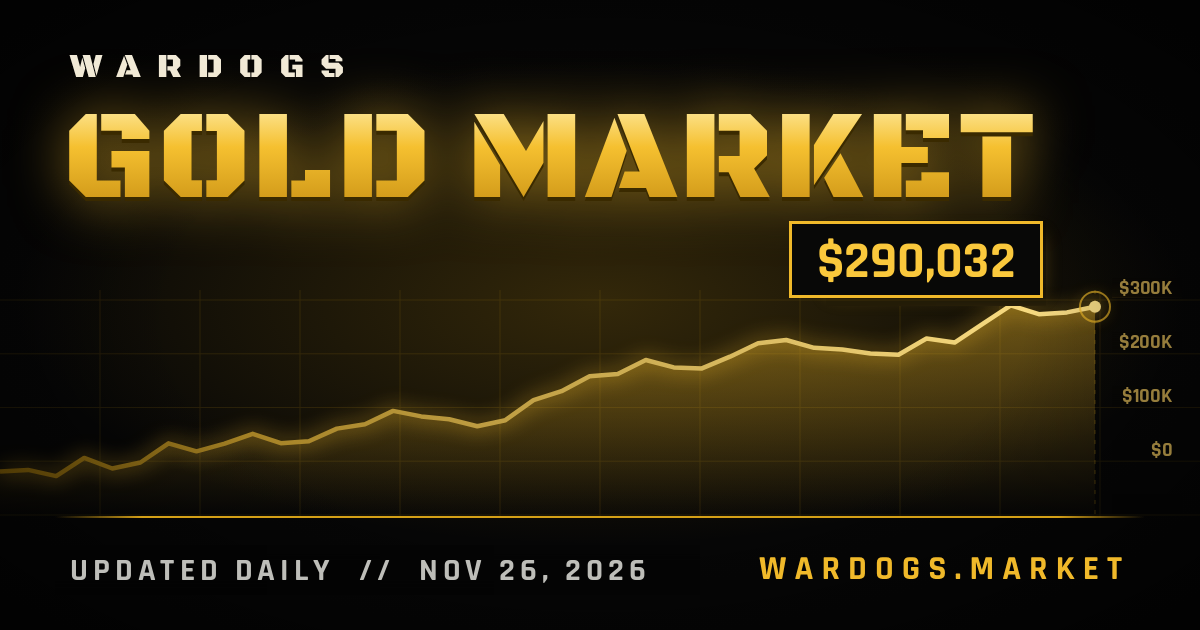
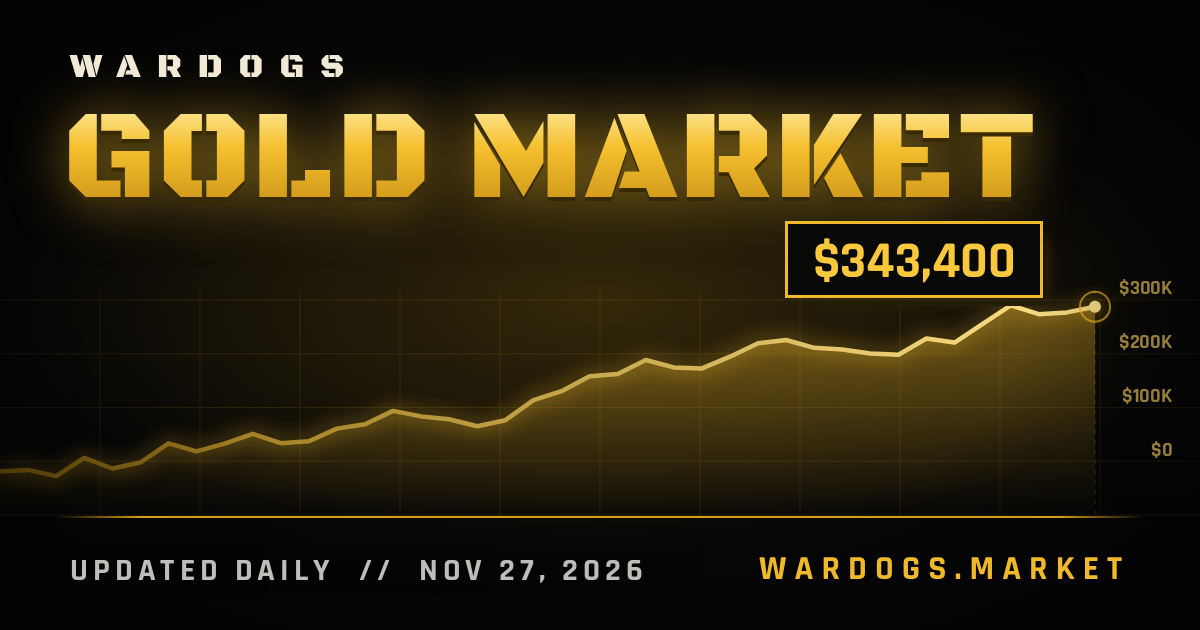
Gold update: $343,400 (2026-11-27)
Claude-Session: https://claude.ai/code/session_01Uhug1yvC9pnBVbRMUzTani

Changed region(s): [[0.6475, 0.3619, 0.8633, 0.4825], [0.4317, 0.8746, 0.555, 0.9349]]

diff --git a/index.html b/index.html
@@ -11,14 +11,14 @@
 <meta property="og:type" content="website">
 <meta property="og:site_name" content="Wardogs.market">
 <meta property="og:title" content="WARDOGS // Gold Market">
-<meta property="og:description" content="Today's Gold Rate: // $290,032">
+<meta property="og:description" content="Today's Gold Rate: // $343,400">
 <meta property="og:url" content="https://www.wardogs.market/">
-<meta property="og:image" content="https://www.wardogs.market/og-image.png?v=20261126">
+<meta property="og:image" content="https://www.wardogs.market/og-image.png?v=20261127">
 <meta property="og:image:width" content="1200">
 <meta property="og:image:height" content="630">
 <meta property="og:image:alt" content="WARDOGS Gold Market: stacked gold bars, with the gold bar rate updated every day at 00:00 UTC">
 <meta name="twitter:card" content="summary_large_image">
-<meta name="twitter:image" content="https://www.wardogs.market/og-image.png?v=20261126">
+<meta name="twitter:image" content="https://www.wardogs.market/og-image.png?v=20261127">
 <link rel="manifest" href="manifest.webmanifest">
 <link rel="apple-touch-icon" href="apple-touch-icon.png">
 <meta name="mobile-web-app-capable" content="yes">
@@ -515,7 +515,7 @@
       <path d="M60 60L90 90M340 60L310 90M60 340L90 310M340 340L310 310"/>
     </svg>
   <main>
-    <noscript><p style="padding:24px 0;color:#c8cbcd;font:600 18px/1.5 sans-serif">WARDOGS gold bar value: $290,032 (Nov 26, 2026). Yesterday: $224,309. Updated every day at 00:00 UTC. Turn on JavaScript to see the live page and history.</p></noscript>
+    <noscript><p style="padding:24px 0;color:#c8cbcd;font:600 18px/1.5 sans-serif">WARDOGS gold bar value: $343,400 (Nov 27, 2026). Yesterday: $290,032. Updated every day at 00:00 UTC. Turn on JavaScript to see the live page and history.</p></noscript>
     <div class="code" id="code-label">MARKET RATE // GOLD BAR</div>
 
     <section class="plate value-panel" id="page-gold">
